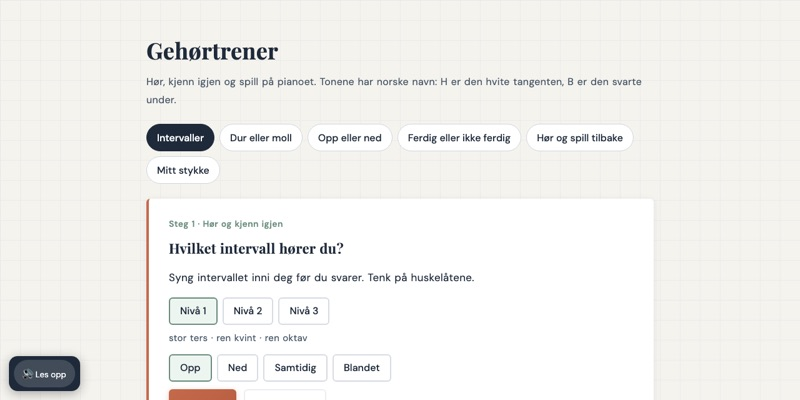
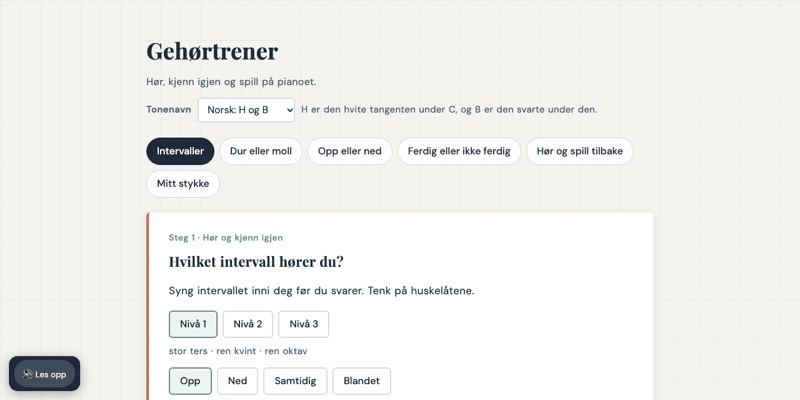
Gehørtrener med valg av tonenavn (norsk/engelsk)

diff --git a/laerer/gehortrener.html b/laerer/gehortrener.html
@@ -45,7 +45,11 @@
   h1 { font-family: var(--font-serif); font-size: 36px; margin: 0 0 4px; }
   h2 { font-family: var(--font-serif); font-size: 22px; margin: 0 0 12px; }
   h3 { font-family: var(--font-serif); font-size: 19px; margin: 24px 0 8px; }
-  .undertittel { font-size: 16px; color: var(--navy-muted); margin: 0 0 24px; }
+  .undertittel { font-size: 16px; color: var(--navy-muted); margin: 0 0 10px; }
+  .tonenavn-valg { display: flex; flex-wrap: wrap; align-items: center; gap: 6px 10px; font-size: 15px; color: var(--navy-muted); margin: 0 0 24px; }
+  .tonenavn-valg label { font-weight: 600; color: inherit; }
+  .tonenavn-valg select { font: 400 16px var(--font-sans); color: var(--navy); background: #fff; border: 2px solid #d6dce3; border-radius: 6px; padding: 6px 10px; min-height: 40px; cursor: pointer; }
+  .tonenavn-valg select:focus { outline: none; border-color: var(--sage); }
   .utkast {
     display: inline-block; background: #fff4d6; border: 1px solid #e0c060; border-radius: 6px;
     padding: 4px 12px; font-size: 14px; margin-bottom: 16px;
@@ -186,7 +190,10 @@
 <div class="container">
 
   <h1>Gehørtrener</h1>
-  <p class="undertittel">Hør, kjenn igjen og spill på pianoet. Tonene har norske navn: H er den hvite tangenten, B er den svarte under.</p>
+  <p class="undertittel">Hør, kjenn igjen og spill på pianoet.</p>
+  <p class="tonenavn-valg"><label for="tonenavn">Tonenavn</label>
+    <select id="tonenavn"><option value="no">Norsk: H og B</option><option value="en">Engelsk: B og B♭</option></select>
+    <span id="tonenavnInfo">H er den hvite tangenten under C, og B er den svarte under den.</span></p>
 
   <div class="moduler" id="moduler">
     <button class="modul aktiv" data-modul="iv">Intervaller</button>
@@ -338,13 +345,15 @@
   // Bokstav-indeks 0–6 = C D E F G A H. fort = fortegn i halvtoner.
   // =====================================================================
   var NAT = [0, 2, 4, 5, 7, 9, 11];
-  var BOKST = ['C', 'D', 'E', 'F', 'G', 'A', 'H'];
+  // Tonenavn kan byttes mellom norsk (H og B) og engelsk (B og B♭), 05.10.26. BOKST og STANDARDNAVN byttes av settTonenavn().
+  var BOKST_NO = ['C', 'D', 'E', 'F', 'G', 'A', 'H'], BOKST_EN = ['C', 'D', 'E', 'F', 'G', 'A', 'B'];
+  var BOKST = BOKST_NO, ENGELSK = false;
   var DUR = [0, 2, 4, 5, 7, 9, 11];
 
   function midiAv(n) { return 12 * (n.okt + 1) + NAT[n.b] + n.fort; }
   function pc(n) { return ((NAT[n.b] + n.fort) % 12 + 12) % 12; }
   function navn(n) {
-    if (n.b === 6) {
+    if (n.b === 6 && !ENGELSK) {
       if (n.fort === 0) return 'H';
       if (n.fort === -1) return 'B';
       if (n.fort === 1) return 'H♯';
@@ -1070,14 +1079,45 @@
     '1b': ['F-dur', 'd-moll'], '2b': ['B-dur', 'g-moll'], '3b': ['Ess-dur (E♭-dur)', 'c-moll'],
     '4b': ['Ass-dur (A♭-dur)', 'f-moll'], '5b': ['Dess-dur (D♭-dur)', 'b-moll'], '6b': ['Gess-dur (G♭-dur)', 'ess-moll (E♭-moll)']
   };
+  // Med engelske navn: H blir B og B blir B♭, og ♯/♭ skrives direkte
+  var TONEARTER_EN = {
+    '0': ['C-dur', 'a-moll'], '1s': ['G-dur', 'e-moll'], '2s': ['D-dur', 'b-moll'], '3s': ['A-dur', 'f♯-moll'],
+    '4s': ['E-dur', 'c♯-moll'], '5s': ['B-dur', 'g♯-moll'], '6s': ['F♯-dur', 'd♯-moll'],
+    '1b': ['F-dur', 'd-moll'], '2b': ['B♭-dur', 'g-moll'], '3b': ['E♭-dur', 'c-moll'],
+    '4b': ['A♭-dur', 'f-moll'], '5b': ['D♭-dur', 'b♭-moll'], '6b': ['G♭-dur', 'e♭-moll']
+  };
   $('btnSjekkToneart').onclick = function () {
     var v = $('ms-fortegn').value, ut = $('svarToneart');
     if (v === '') { ut.textContent = 'Velg fortegnene først.'; return; }
-    var t = TONEARTER[v];
+    var t = (ENGELSK ? TONEARTER_EN : TONEARTER)[v];
     ut.innerHTML = 'Med disse fortegnene er stykket i <b>' + t[0] + '</b> eller i parallelltonearten <b>' + t[1] + '</b>. ' +
       'Hør på slutten: Ender stykket i dur, er det ' + t[0] + '. Ender det i moll, er det ' + t[1] + '. ' +
       'Tips: I moll dukker ledetonen ofte opp med et ekstra fortegn, for eksempel G♯ i a-moll.';
   };
+
+  // Bytt tonenavn: navn på skjermpianoet, i tonevelgerne og i alt som lages etterpå
+  function settTonenavn(en) {
+    ENGELSK = en; BOKST = en ? BOKST_EN : BOKST_NO;
+    STANDARDNAVN[10] = en ? 'B♭' : 'B'; STANDARDNAVN[11] = en ? 'B' : 'H';
+    TONEVALG[15][0] = en ? 'B♭' : 'B'; TONEVALG[16][0] = en ? 'B' : 'H';
+    document.querySelectorAll('select').forEach(function (sel) {
+      if (!sel.id || !/^ms-iv\d-t[12]$/.test(sel.id)) return;
+      [].forEach.call(sel.options, function (o) { if (o.value !== '') o.textContent = TONEVALG[Number(o.value)][0]; });
+    });
+    [].forEach.call(document.querySelectorAll('#piano .hvit'), function (el, i) {
+      var b = i % 7; el.textContent = BOKST[b]; el.setAttribute('aria-label', 'Tangent ' + BOKST[b]);
+    });
+    [].forEach.call(document.querySelectorAll('#piano .svart'), function (el) {
+      var under = tangenter[Number(el.dataset.midi) - 1];
+      if (under) el.setAttribute('aria-label', 'Svart tangent over ' + under.textContent);
+    });
+    $('tonenavnInfo').textContent = en
+      ? 'B er den hvite tangenten under C, og B♭ er den svarte under den. Det er navnene i engelske noter og besifringer.'
+      : 'H er den hvite tangenten under C, og B er den svarte under den.';
+  }
+  $('tonenavn').addEventListener('change', function () { settTonenavn($('tonenavn').value === 'en'); });
+  // Lagringen fyller inn forrige valg etter innlasting, så valget leses også da
+  window.addEventListener('load', function () { setTimeout(function () { settTonenavn($('tonenavn').value === 'en'); }, 0); });
 
   // Start
   velgModul('iv');
